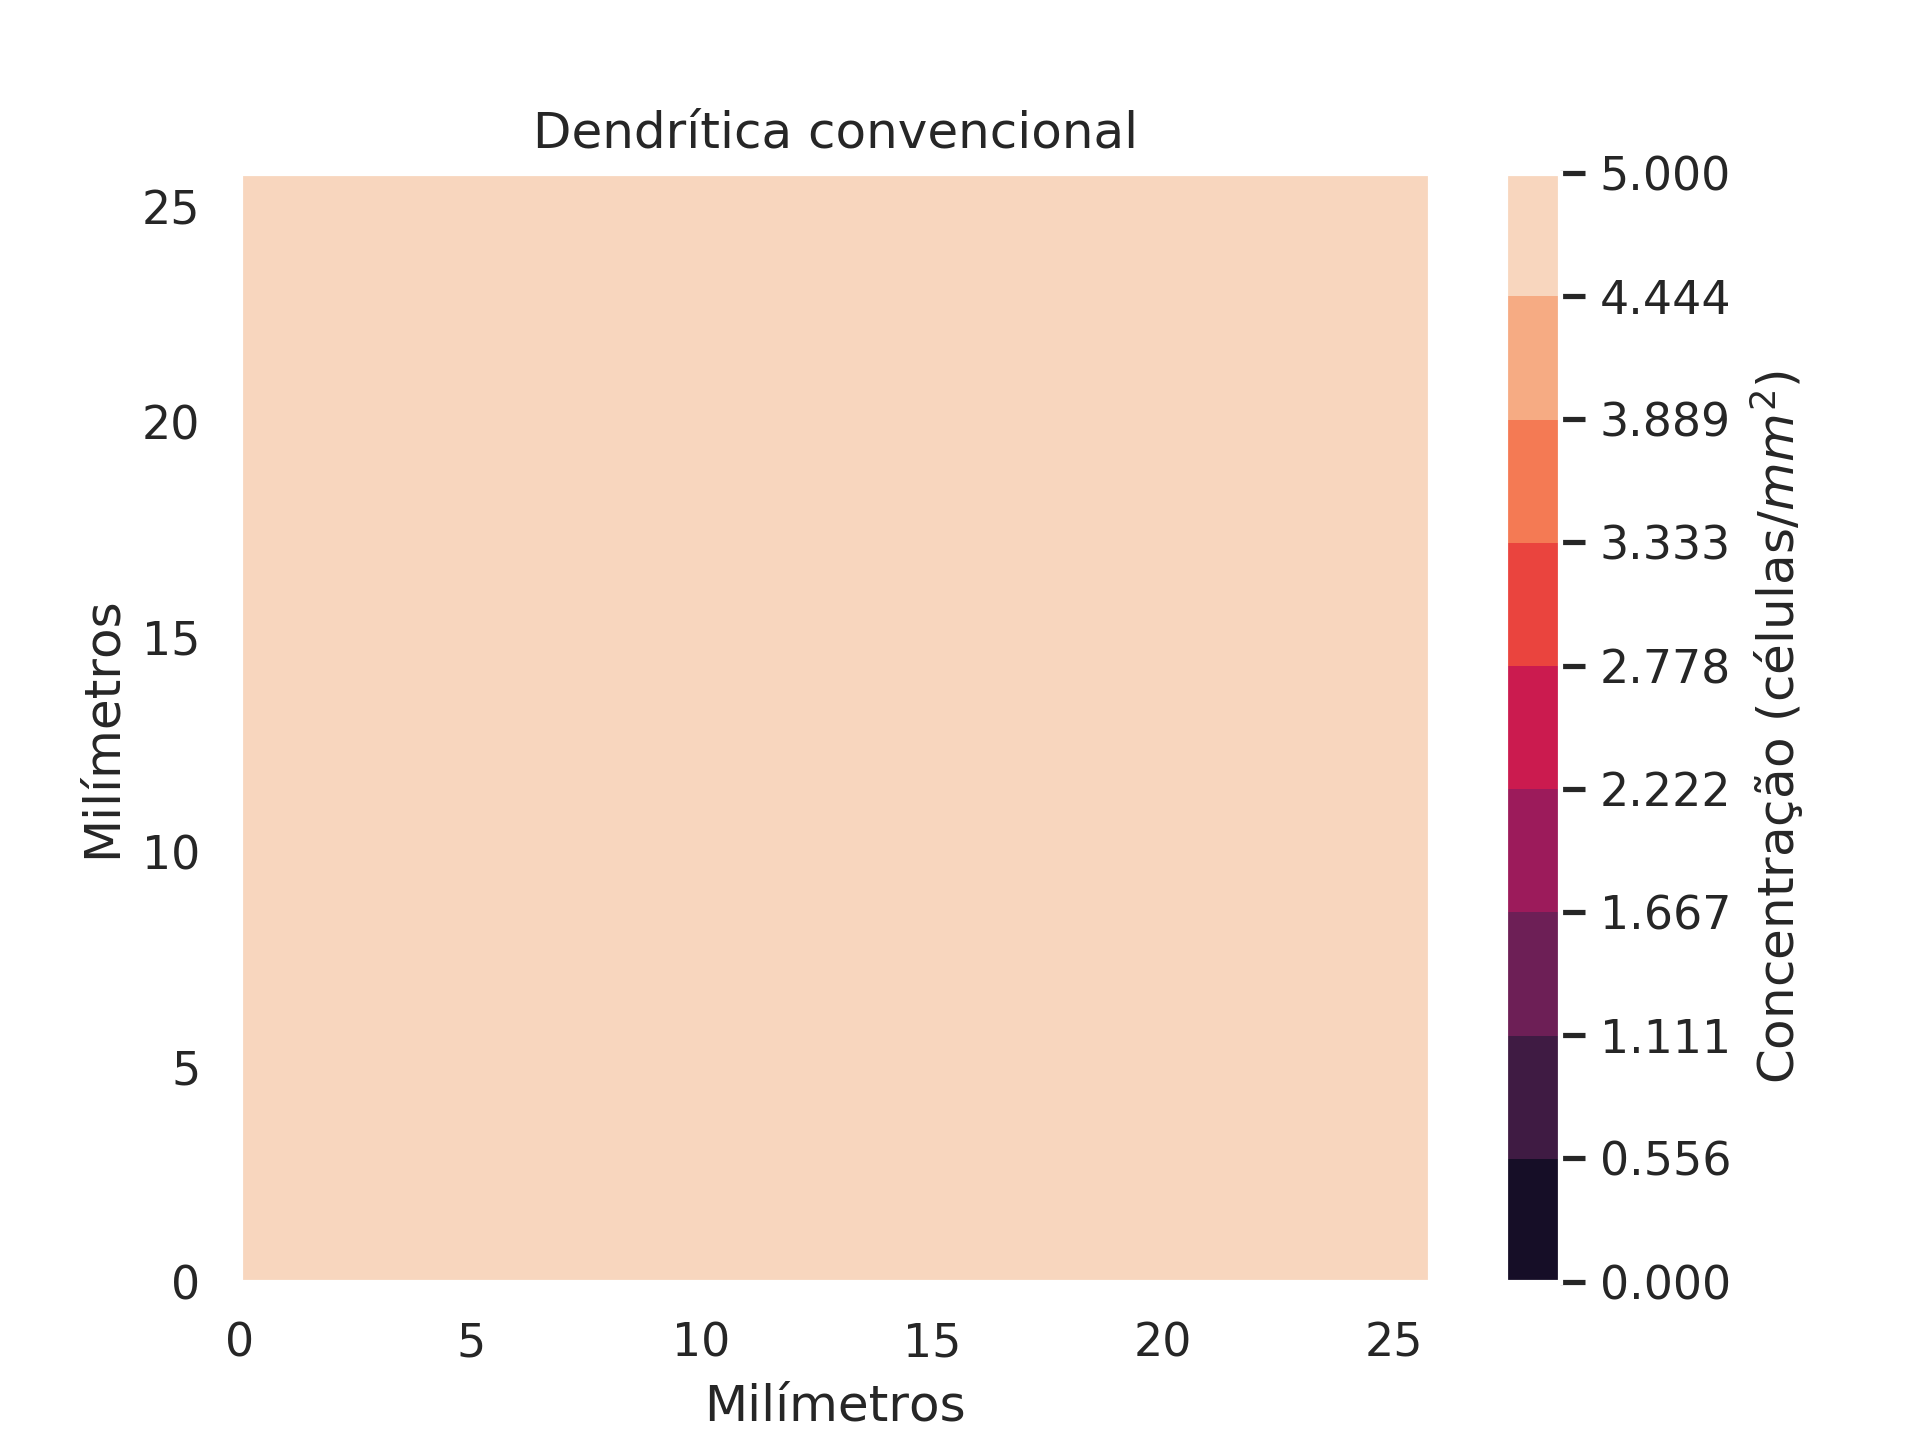
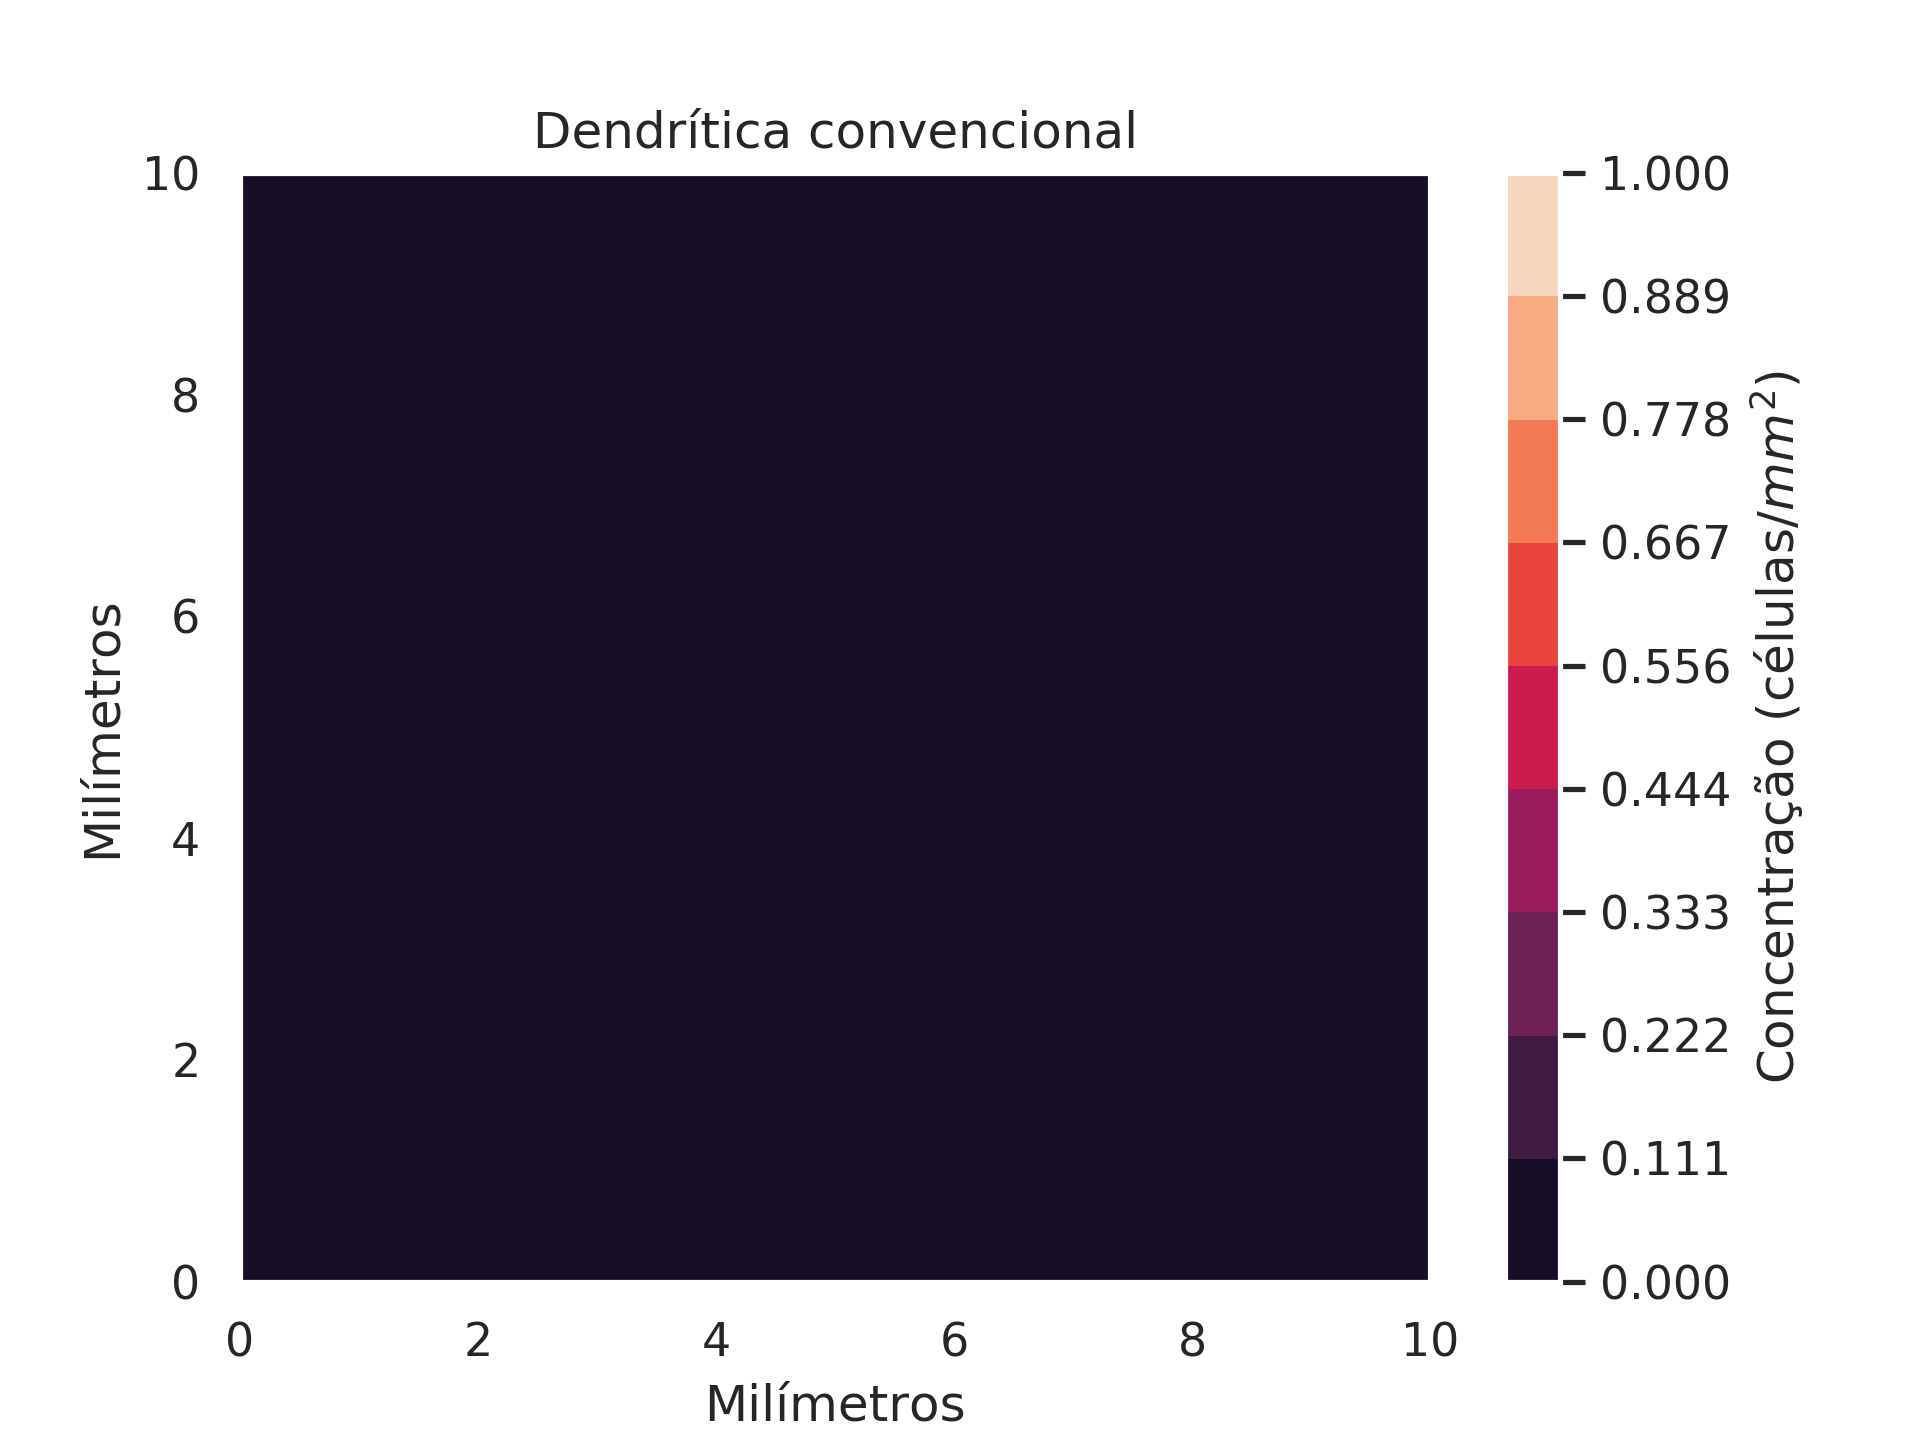
verificador de cfl

diff --git a/src/modelo_populações_completo.py b/src/modelo_populações_completo.py
@@ -1,4 +1,3 @@
-from turtle import ht
 import matplotlib.pyplot as plt
 import numpy as np
 import seaborn as sns
@@ -13,10 +12,11 @@ gradiente = lambda ponto_anterior, ponto_posterior, valor_maximo: quimiotaxia(po
 quimiotaxia = lambda ponto_atual, valor_maximo: ponto_atual/(valor_maximo + ponto_atual)
 f_func = lambda populacao, valor_maximo: populacao*populacao/(valor_maximo + populacao)
 
-T_final = 0.3 # 1# Dia
+
+T_final = 1# Dia
 h_t = 0.001
 
-L = 25.8  # Comprimento da malha
+L = 10  # Comprimento da malha
 h_x = 0.1
 
 t = np.linspace(0, T_final, int(T_final/h_t))
@@ -27,6 +27,11 @@ steps = len(t)
 num_figuras = 5
 intervalo_figs = int(steps/num_figuras)
 
+def verifica_cfl(difusao_mic, difusao_dc, difusao_da, quimiotaxia_dc, quimiotaxia_mic):
+    if(difusao_mic*h_t/h_x**2 < 1/4 and difusao_dc*h_t/h_x**2 < 1/4 and difusao_da*h_t/h_x**2 < 1/4 and quimiotaxia_dc*h_t/h_x < 1 and quimiotaxia_mic*h_t/h_x < 1):
+        return True
+    else:
+        return False
 
 V_BV = 0
 V_LV = 0
@@ -67,10 +72,12 @@ anticorpo_anterior = np.zeros((int(L/h_x), int(L/h_x)))
 
 # Dendríticas convencionais
 dc_media = 5
-dendritica_conv_anterior = dc_media*np.ones((int(L/h_x), int(L/h_x)))
+dendritica_conv_anterior = np.zeros((int(L/h_x), int(L/h_x)))
 
 # Dendríticas ativadas
 dendritica_ativ_anterior = np.zeros((int(L/h_x), int(L/h_x)))
+
+#***********************Declaracao das matrizes que vao guardar os valores do passo de tempo atual*********************
 
 mic_atual = np.zeros((int(L/h_x), int(L/h_x)))
 t_cito_atual = np.zeros((int(L/h_x), int(L/h_x)))
@@ -174,6 +181,9 @@ parameters = {
     "V_BV": V_BV,
     "V_LN": V_LN
 }
+if not verifica_cfl(parameters["D_mic"], parameters["d_dc"], parameters["d_da"], parameters["chi"], parameters["chi"]):
+    print("Falhou cfl!!!")
+    exit(1)
 
 #BC
 bc_neumann_cima = 0
@@ -303,8 +313,8 @@ for k in range(1,steps):
             #DC convencional
             quimiotaxia_dc = parameters["chi"]*(gradiente_odc_i*gradiente_dc_i + gradiente_odc_j*gradiente_dc_j)
             difusao_dc = parameters["d_dc"]*(dc_ipj + dc_imj - 4*dc + dc_ijp + dc_ijm )/h_x**2
-            reacao_dc = parameters["mu_dc"]*oligo_destr*(dc_media- dc)
-            ativacao_dc_da = 0 # parameters["b_d"]*oligo_destr*dc
+            reacao_dc = parameters["mu_dc"]*oligo_destr*(dc_media - dc)
+            ativacao_dc_da = parameters["b_d"]*oligo_destr*dc
 
             dendritica_conv_atual[i][j] = dc + h_t*(reacao_dc + difusao_dc - quimiotaxia_dc - ativacao_dc_da)
             
@@ -312,13 +322,13 @@ for k in range(1,steps):
             difusao_da = parameters["d_da"]*(da_ipj + da_imj - 4*da + da_ijp + da_ijm)/h_x**2
             migracao_da = 0 #theta_LV[i][j]*parameters["gamma_D"]*(DL_atual - da)
 
-            # dendritica_ativ_atual[i][j] = da + h_t*(difusao_da + ativacao_dc_da + migracao_da)
+            dendritica_ativ_atual[i][j] = da + h_t*(difusao_da + ativacao_dc_da + migracao_da)
             if microglia < 0:
-                print("Tempo do Erro: " + str(k*h_t) + " - Variavel microglia: " + str(microglia) + " - Tipo: " + str(type(microglia)))
+                print("Tempo do Erro: " + str(k*h_t) + " - Variavel microglia: " + str(microglia))
             if da < 0:
-                print("Tempo do Erro: " + str(k*h_t) + " - Variavel DA: " + str(da) + " - Tipo: " + str(type(da)))
+                print("Tempo do Erro: " + str(k*h_t) + " - Variavel DA: " + str(da))
             if dc < 0:
-                print("Tempo do Erro: " + str(k*h_t) + " - Variavel dc: " + str(dc) + " - Tipo: " + str(type(dc)))
+                print("Tempo do Erro: " + str(k*h_t) + " - Variavel dc: " + str(dc))
             
     olide_anterior = np.copy(olide_atual)
     dendritica_conv_anterior = np.copy(dendritica_conv_atual)
@@ -363,6 +373,10 @@ for k in range(1,steps):
 
 #Fim da contagem do tempo
 toc = time.perf_counter()
+
+final_time = (toc - tic)*10**6
+
+print("Tempo de execução: " + str(final_time) + " s")
 
 #Transforma de dias para horas no plot
 t = np.multiply(t,24)
